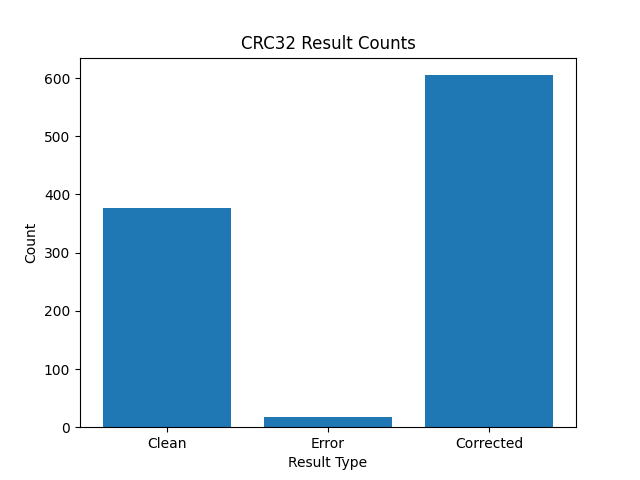
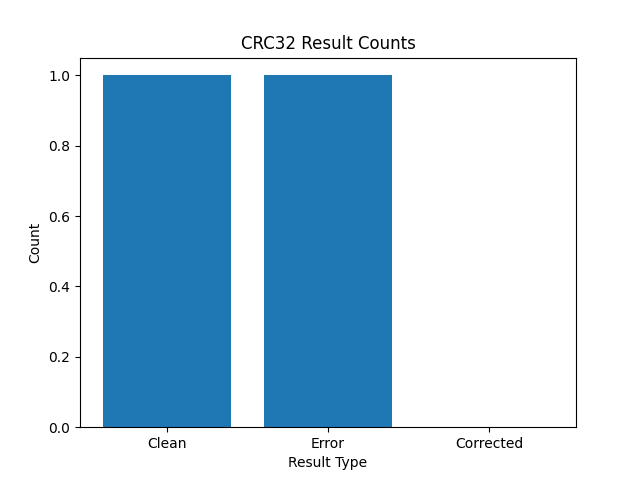
correciones

diff --git a/pruebas.py b/pruebas.py
@@ -25,7 +25,7 @@ def generar_mensaje():
 if __name__ == "__main__":
     mensaje = generar_mensaje()
     probabilities = [0.001, 0.01, 0.1]
-    methods = [1, 2]
+    methods = [1,2]
 
     iteraciones = int(input("Ingrese la cantidad de iteraciones: "))
 
@@ -41,6 +41,10 @@ if __name__ == "__main__":
             clean_counts_hamming = 0
             error_counts_hamming = 0
             corrected_counts_hamming = 0
+
+            # Datos para graficar
+            labels = ['Clean', 'Error', 'Corrected']
+            x = range(len(labels))
 
             for _ in range(iteraciones):
                 emisor_process = multiprocessing.Process(target=run_emisor, args=(mensaje, metodo, probabilidad))
@@ -63,38 +67,44 @@ if __name__ == "__main__":
                     error_counts_hamming =+ error_count
                     corrected_counts_hamming =+ corrected_count
 
+                hamming_counts = [clean_counts_hamming, error_counts_hamming, corrected_counts_hamming]
+
+                with open("hamming.txt", "w") as hamming_file:
+                    hamming_file.truncate(0)
+
+                # Crear la gráfica de barras para Hamming
+                plt.bar(x, hamming_counts, align='center')
+                plt.xlabel('Result Type')
+                plt.ylabel('Count')
+                plt.title('Hamming Result Counts')
+                plt.xticks(x, labels)
+                plt.savefig('hamming_' + str(probabilidad) +'.png' )
+                plt.clf()
+
             if os.path.exists("crc32.txt"):
                 with open("crc32.txt", "r") as crc32_file:
                     lines = crc32_file.readlines()
                     clean_count = lines.count("clean\n")
                     error_count = lines.count("error\n")
                     corrected_count = lines.count("corrected\n")
-                    clean_counts_crc32 += clean_count
-                    error_counts_crc32 += error_count
-                    corrected_counts_crc32 += corrected_count
+                    clean_counts_crc32 =+ clean_count
+                    error_counts_crc32 =+ error_count
+                    corrected_counts_crc32 =+ corrected_count
 
-            # Datos para graficar
-            labels = ['Clean', 'Error', 'Corrected']
-            hamming_counts = [clean_counts_hamming, error_counts_hamming, corrected_counts_hamming]
-            crc32_counts = [clean_counts_crc32, error_counts_crc32, corrected_counts_crc32]
+                crc32_counts = [clean_counts_crc32, error_counts_crc32, corrected_counts_crc32]
 
-            x = range(len(labels))
+                with open("crc32.txt", "w") as crc32_file:
+                    crc32_file.truncate(0)
 
-            # Crear la gráfica de barras para Hamming
-            plt.bar(x, hamming_counts, align='center')
-            plt.xlabel('Result Type')
-            plt.ylabel('Count')
-            plt.title('Hamming Result Counts')
-            plt.xticks(x, labels)
-            plt.savefig('hamming_' + str(probabilidad) +'.png' )
+                # Crear la gráfica de barras para Hamming
+                plt.bar(x, crc32_counts, align='center')
+                plt.xlabel('Result Type')
+                plt.ylabel('Count')
+                plt.title('CRC32 Result Counts')
+                plt.xticks(x, labels)
+                plt.savefig('crc32_' + str(probabilidad) +'.png' )
+                plt.clf()
 
-            # Crear la gráfica de barras para CRC32
-            plt.bar(x, crc32_counts, align='center')
-            plt.xlabel('Result Type')
-            plt.ylabel('Count')
-            plt.title('CRC32 Result Counts')
-            plt.xticks(x, labels)
-            plt.savefig('crc32_' + str(probabilidad) +'.png')
 
             # borrar datos en archivos
             if os.path.exists("hamming.txt"):

diff --git a/receptor.java b/receptor.java
@@ -132,11 +132,13 @@ class capaPresentacion{
         String texto = "";
 
         for (int i = 0; i < trama.length(); i += 8) {
-            String byteString = trama.substring(i, i + 8);
+            int endIndex = Math.min(i + 8, trama.length());
+            String byteString = trama.substring(i, endIndex);
             int byteInt = Integer.parseInt(byteString, 2);
             char byteChar = (char) byteInt;
             texto += byteChar;
         }
+
 
         ArrayList<String> info = new ArrayList<>(List.of(texto, error, metodo));
         return info;
